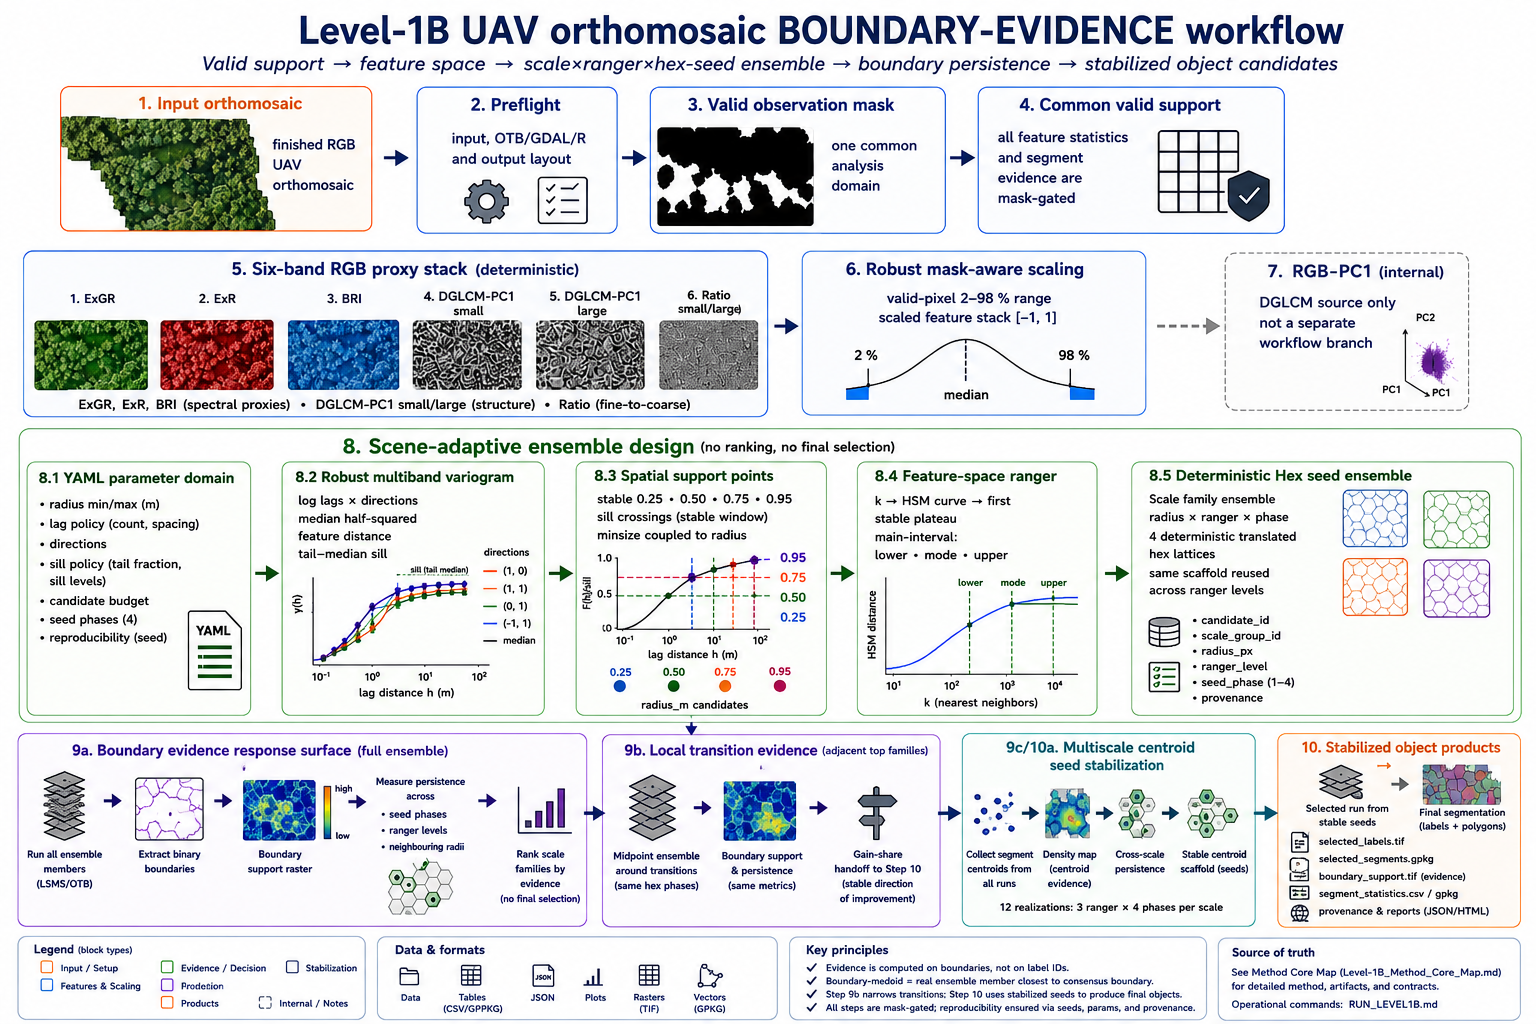
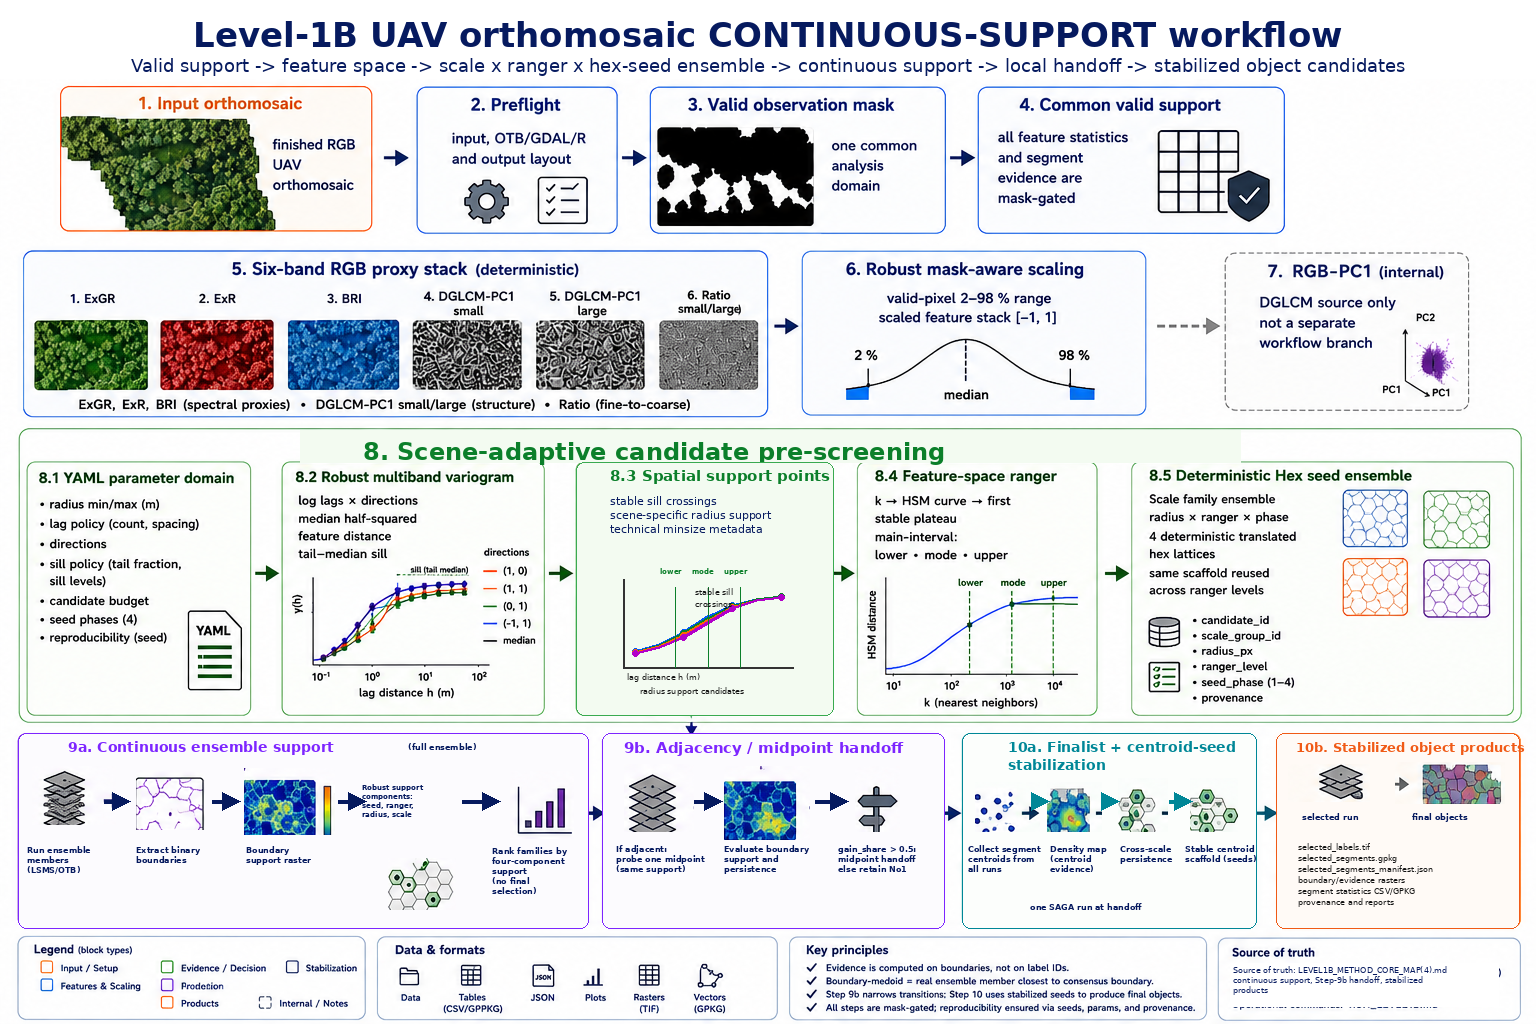
update installation information

diff --git a/README.md b/README.md
@@ -21,6 +21,26 @@ For Level-1B:
 bash scripts/setup_level1b.sh
 ```
 
+For macOS:
+
+```bash
+bash scripts/setup_level1a_macos.sh
+bash scripts/setup_level1b_macos.sh
+```
+
+For Windows PowerShell:
+
+```powershell
+powershell -ExecutionPolicy Bypass -File scripts/setup_level1a_windows.ps1
+powershell -ExecutionPolicy Bypass -File scripts/setup_level1b_windows.ps1
+```
+
+The macOS and Windows scripts apply the same Python/dependency checks as the
+Linux setup. They do not install licensed or system software. The current
+normal workflow launchers are Bash-based; the Windows scripts therefore report
+native launcher integration as unresolved rather than implying that dependency
+checks alone make the complete chain natively executable.
+
 The setup scripts create or reuse `.venv`, install the local Python package, verify required Python imports, and check external tools. They do **not** install licensed or system software such as Agisoft Metashape, SAGA GIS, OTB, GDAL CLI tools, or R itself.
 
 ## Active documentation
